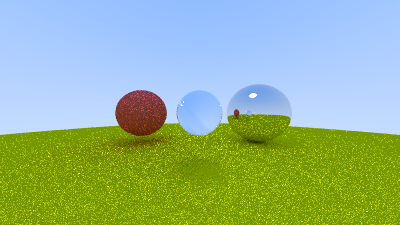
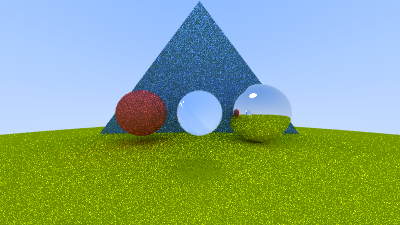
triangles and math that beat me up

Changed region(s): [[0.0, 0.0, 1.0, 1.0]]

diff --git a/triangle.py b/triangle.py
@@ -1,0 +1,63 @@
+import numpy as np
+
+from hit_record import HitRecord
+from materials import Material
+from ray import Ray, normalize
+
+
+class Triangle:
+    def __init__(self,
+                 v0: np.ndarray,
+                 v1: np.ndarray,
+                 v2: np.ndarray,
+                 material: Material):
+        self.v0 = v0
+        self.v1 = v1
+        self.v2 = v2
+        self.e1 = v1 - v0
+        self.e2 = v2 - v0
+        self.material = material
+        self.normal = np.cross(v1 - v0, v2 - v0)
+    
+    def hit(self, ray: Ray, time_min: float, time_max: float) -> HitRecord | None:
+        #triple product scaler
+        ray_is_parallel = abs(np.dot(-ray.direction, np.cross(self.e1, self.e2))) < 1e-6
+        if ray_is_parallel:
+            return None
+        
+        #cramers rule
+        #solving uE1 + vE2 - time * direction = (ray_origin - v0)
+        v0_to_ray_origin = ray.origin - self.v0
+        cramer_denominator = np.dot(-ray.direction, np.cross(self.e1, self.e2))
+
+        u_cramer_numerator = np.dot(v0_to_ray_origin, np.cross(self.e2, -ray.direction))
+        u = u_cramer_numerator / cramer_denominator
+        if not (0.0 <= u <= 1.0):
+            return None
+        
+        v_cramer_numerator = np.dot(self.e1, np.cross(v0_to_ray_origin, -ray.direction))
+        v = v_cramer_numerator / cramer_denominator
+        if not (0.0 <= v <= 1.0):
+            return None
+        
+        if u + v > 1.0:
+            return None
+        
+        t_cramer_numerator = np.dot(self.e1, np.cross(self.e2, v0_to_ray_origin))
+        time = t_cramer_numerator / cramer_denominator
+        if not (time_min <= time <= time_max):
+            return None
+        
+        point = ray.position(time)
+
+        outward_normal = normalize(self.normal)
+        front_face = np.dot(ray.direction, outward_normal) < 0.0
+        normal = outward_normal if front_face else -outward_normal
+
+        return HitRecord(
+            time=time,
+            point=point,
+            normal=normal,
+            material=self.material,
+            front_face=front_face
+        )

diff --git a/raytracer.py b/raytracer.py
@@ -6,6 +6,7 @@ from camera import Camera
 from materials import Dielectric, Emissive, Lambertian, Metal
 from ray import Ray, normalize, reflect, refract, schlick
 from sphere import Sphere
+from triangle import Triangle
 
 MAX_DEPTH = 10
 
@@ -15,8 +16,8 @@ def ray_color(ray: Ray, world: list[Sphere], depth: int) -> np.ndarray:
     shortest_hit_time = float('inf')
     hit_record = None
 
-    for sphere in world:
-        hit = sphere.hit(ray, 1e-3, shortest_hit_time)
+    for object in world:
+        hit = object.hit(ray, 1e-3, shortest_hit_time)
         if hit:
             shortest_hit_time = hit.time
             hit_record = hit
@@ -59,6 +60,7 @@ def main():
     material_left   = Lambertian(np.array([0.8, 0.3, 0.3], dtype=np.float32))
     material_right  = Metal(np.array([0.9, 0.9, 0.9], dtype=np.float32), fuzz=0.0)
     material_light = Emissive(np.array([4.0, 4.0, 4.0], dtype=np.float32))
+    material_triangle = Lambertian(np.array([0.3, 0.5, 0.8], dtype=np.float32))
     world = [
         Sphere(
             center=np.array([0.0, 0.0, -1.0], dtype=np.float32),
@@ -84,6 +86,12 @@ def main():
             center=np.array([0.0, 3.0, -0.9], dtype=np.float32),
             radius=0.5,
             material=material_light,
+        ),
+        Triangle(
+            v0=np.array([-3.0, -1.0, -3.0], dtype=np.float32),
+            v1=np.array([ 3.0, -1.0, -3.0], dtype=np.float32),
+            v2=np.array([ 0.0,  3.0, -3.0], dtype=np.float32),
+            material=material_triangle,
         ),
     ]
 
